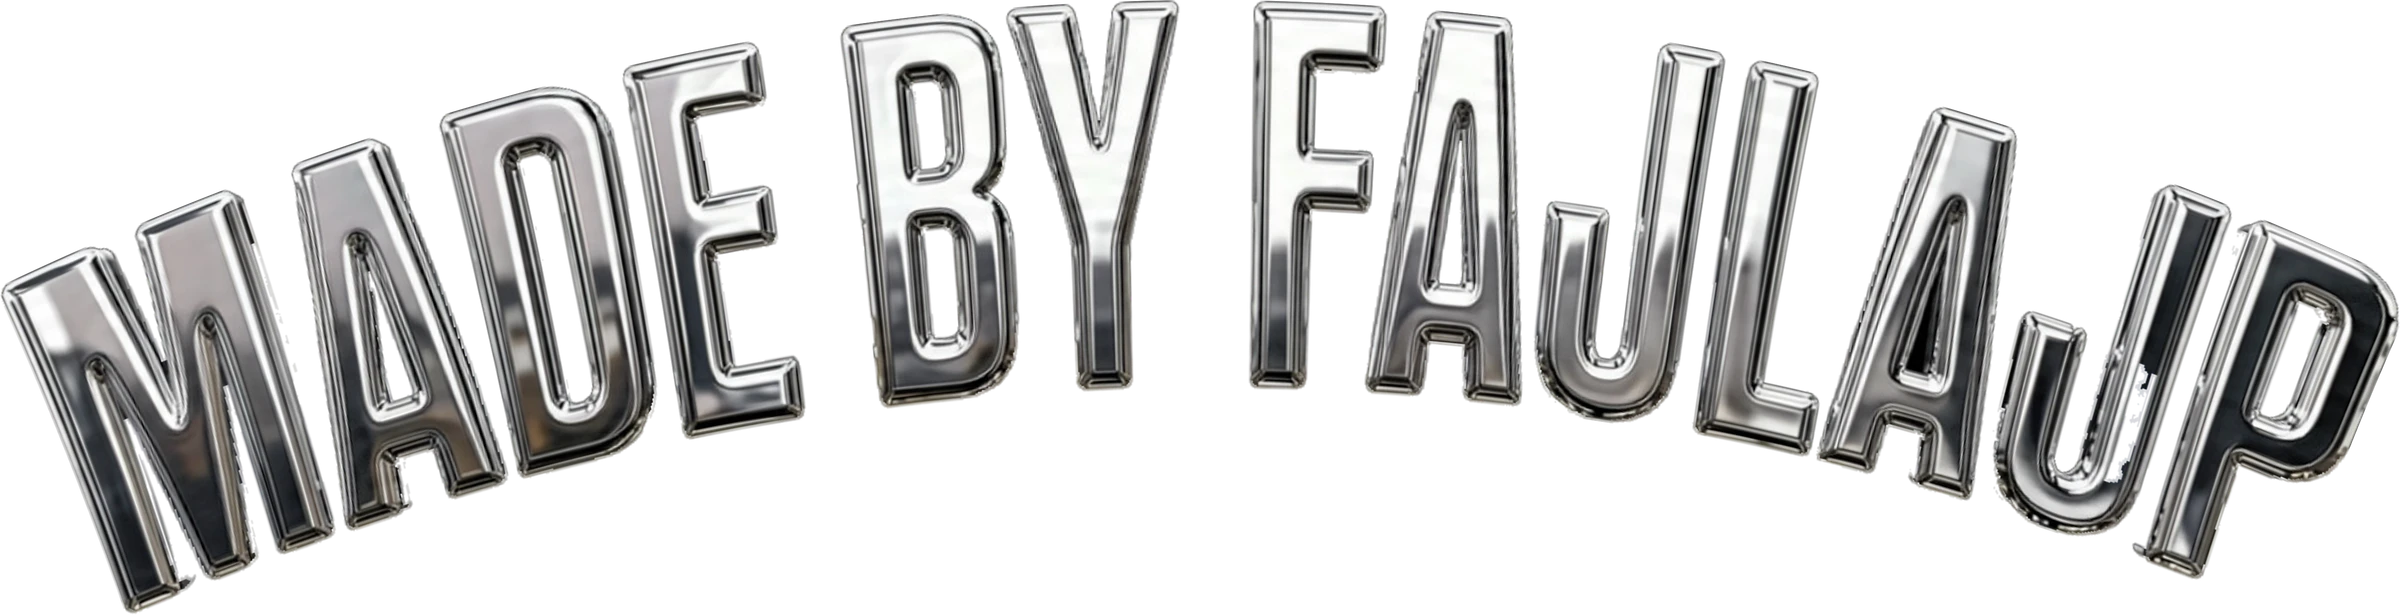
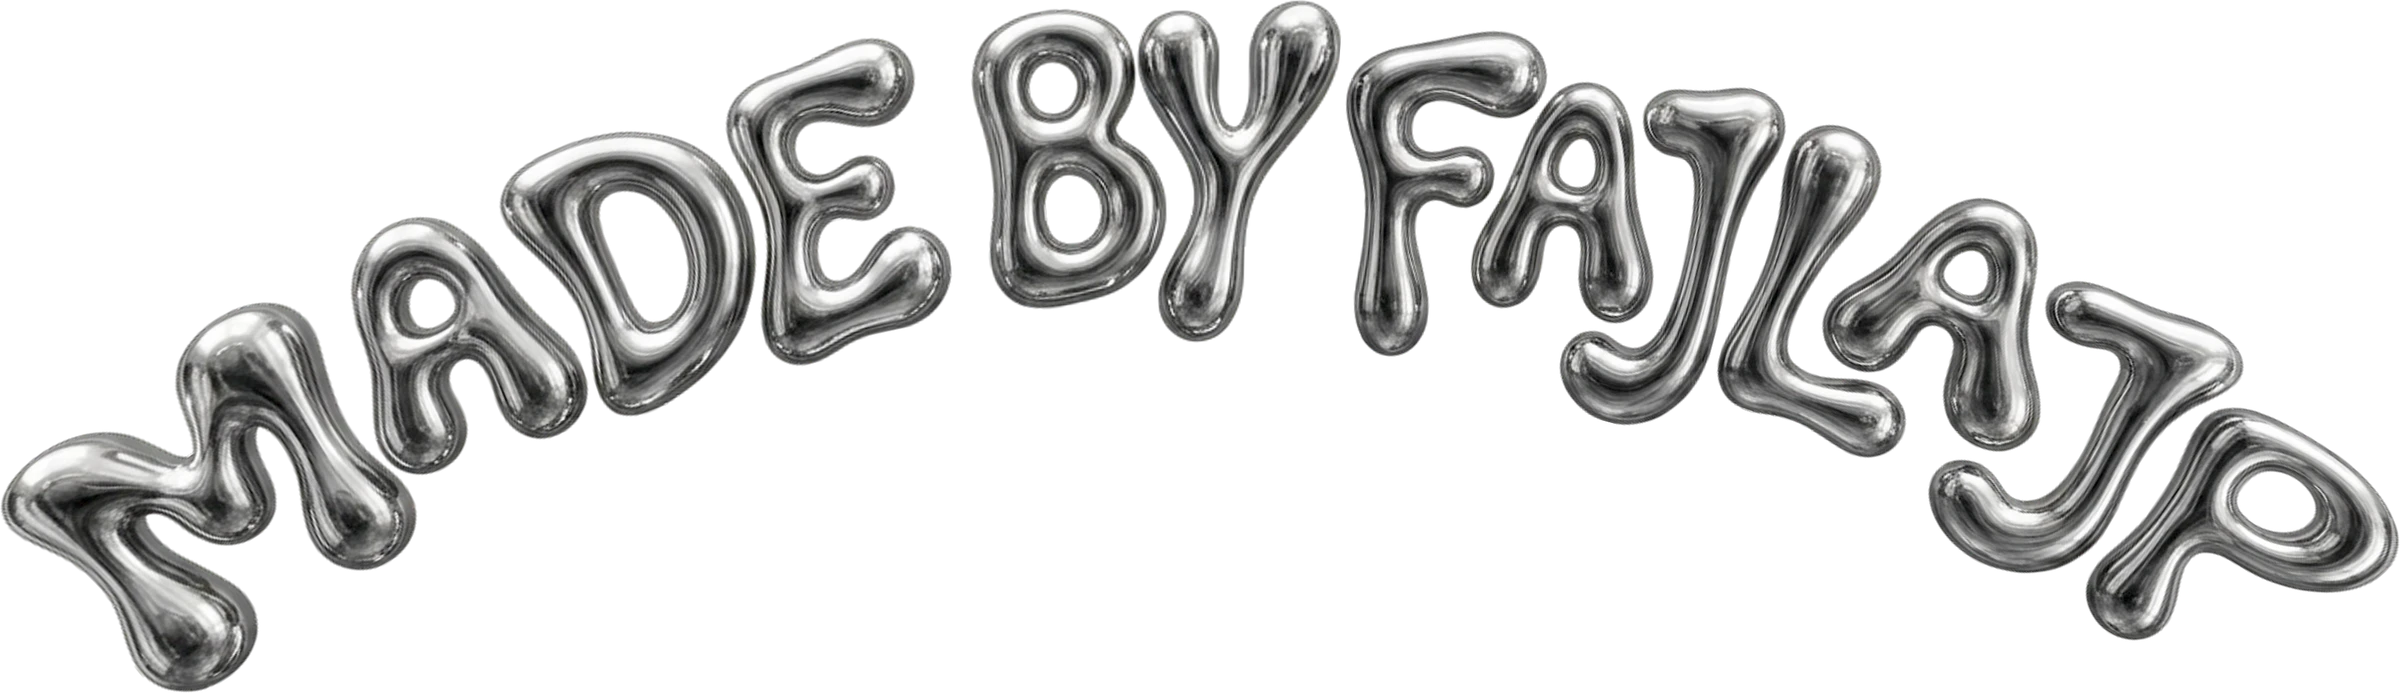
pridani noveho stylu pisma MADE BY FAJLAJP a loga v horni navigaci

diff --git a/src/components/layout/Header.module.css b/src/components/layout/Header.module.css
@@ -45,7 +45,8 @@
 .logo {
   display: block;
   width: auto;
-  height: clamp(18px, 1rem + 0.4vw, 24px);
+  /* the liquid letters are tall (drips): taller than the old flat logo, about as wide */
+  height: clamp(32px, 1.5rem + 0.6vw, 42px);
 }
 
 /* the glint: a bright diagonal band that sweeps across the letters once on hover. Masked by the
@@ -54,12 +55,12 @@
   position: absolute;
   left: 0;
   right: 0;
-  top: 50%;
-  height: clamp(18px, 1rem + 0.4vw, 24px);
-  translate: 0 -50%;
+  /* exactly over the logo: the brand link is as tall as the logo image */
+  top: 0;
+  bottom: 0;
   pointer-events: none;
-  -webkit-mask: url('/brand/logo-fajlajp-nav.webp') center / contain no-repeat;
-  mask: url('/brand/logo-fajlajp-nav.webp') center / contain no-repeat;
+  -webkit-mask: url('/brand/logo-fajlajp-liquid.webp') center / contain no-repeat;
+  mask: url('/brand/logo-fajlajp-liquid.webp') center / contain no-repeat;
   background: linear-gradient(
     105deg,
     rgb(255 255 255 / 0) 0%,

diff --git a/src/components/layout/Header.tsx b/src/components/layout/Header.tsx
@@ -20,12 +20,12 @@ export async function Header() {
     <HeaderShell className={styles.header}>
       <div className={styles.bar}>
         <Link href={rootOf(lang)} className={styles.brand} aria-label={`${site.brand} – ${ui.homeLabel}`}>
-          {/* the chrome logotype (public/brand, cut out by scripts/logo-cutout.mjs) */}
+          {/* the liquid chrome logotype (public/brand, the FAJLAJP of the hero title, scripts/title-cutout.mjs) */}
           <Image
-            src="/brand/logo-fajlajp-nav.webp"
+            src="/brand/logo-fajlajp-liquid.webp"
             alt=""
-            width={720}
-            height={120}
+            width={768}
+            height={288}
             priority
             unoptimized
             className={styles.logo}

diff --git a/src/features/home/ArchTitle.tsx b/src/features/home/ArchTitle.tsx
@@ -196,7 +196,7 @@ export function ArchTitle() {
     <div ref={ref} className={styles.archScene}>
       <div className={styles.archFloat}>
         <div className={styles.archTilt}>
-          <Image src={SRC} alt="" width={2400} height={615} priority unoptimized className={styles.archImg} />
+          <Image src={SRC} alt="" width={2400} height={693} priority unoptimized className={styles.archImg} />
           {/* a white flash running across now and then */}
           <span className={styles.archGlint} aria-hidden="true" />
           {/* the edges catching the cursor's light */}
